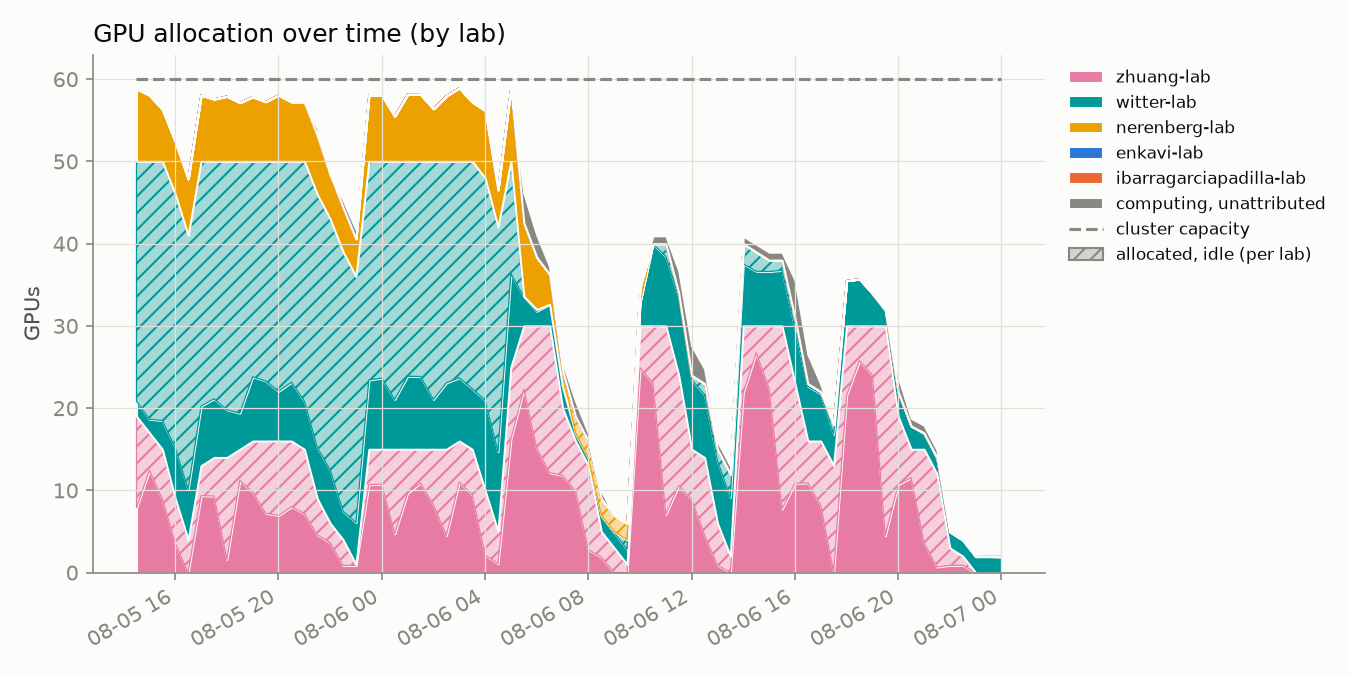
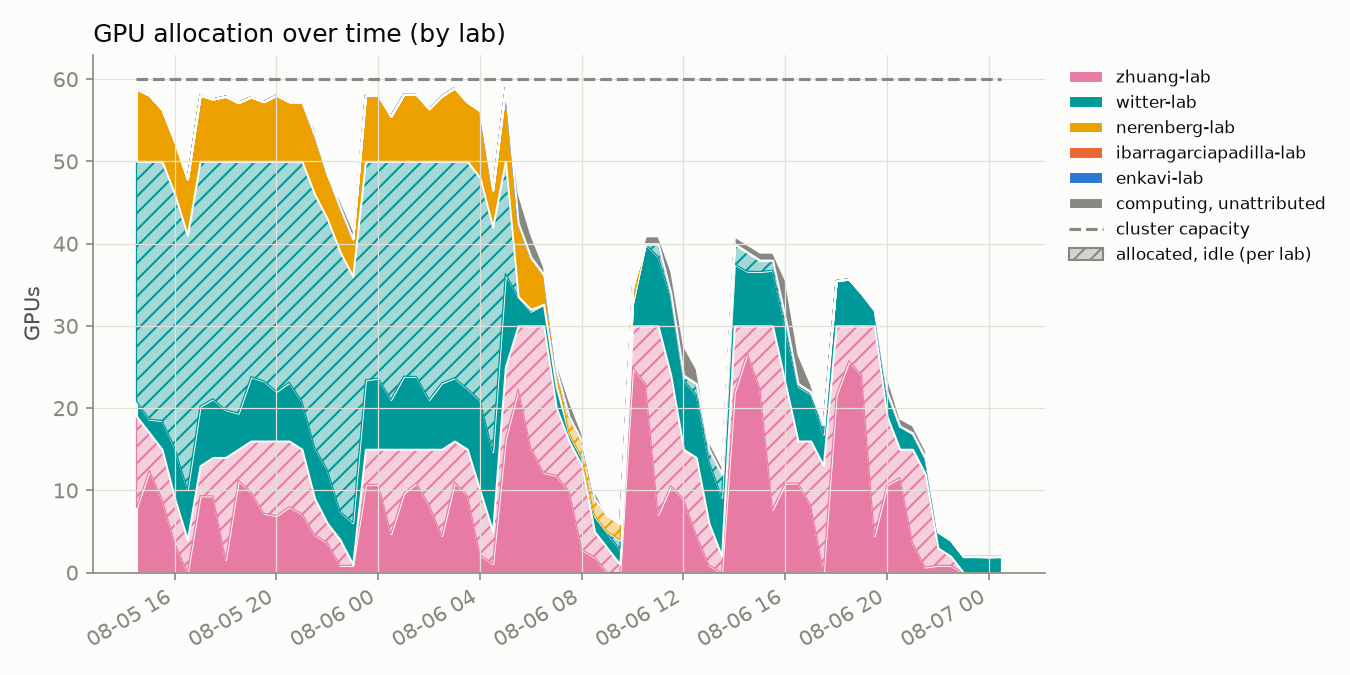
update 2026-08-07T00:30:01-07:00

diff --git a/README.md b/README.md
@@ -2,8 +2,8 @@
 
 Automated GPU/CPU/queue utilization tracker for `hopper.cluster`, updated every 30 minutes by cron. Usernames are anonymized to a stable per-account pseudonym; lab names are real.
 
-Last updated: 2026-08-07T00:00:06-07:00
-Samples: 68 queue snapshots, 68 GPU snapshots
+Last updated: 2026-08-07T00:30:06-07:00
+Samples: 69 queue snapshots, 69 GPU snapshots
 
 ## Resources
 
@@ -16,9 +16,9 @@ Samples: 68 queue snapshots, 68 GPU snapshots
 
 ## Headline
 
-- **58.3%** of the cluster's 60 GPUs allocated, averaged across all samples
+- **57.5%** of the cluster's 60 GPUs allocated, averaged across all samples
 - **42.9%** average `nvidia-smi` utilization *when* a GPU is allocated to a job
-- **84.5%** average cgroup CPU utilization *when* a CPU is allocated to a job
+- **84.6%** average cgroup CPU utilization *when* a CPU is allocated to a job
 
 ## Per lab / per user
 
@@ -26,13 +26,13 @@ Samples: 68 queue snapshots, 68 GPU snapshots
 <tr><th>Lab</th><th>User</th><th align='right'>GPU-hours allocated</th><th align='right'>CPU-hours allocated</th><th align='right'>GPU utilization</th></tr>
 <tr style='background-color:#fbebf1'><td>zhuang-lab</td><td>user-0db9ced0</td><td align='right'>534.0</td><td align='right'>534.0</td><td align='right'>49%</td></tr>
 <tr style='background-color:#d8efef'><td>witter-lab</td><td>user-d58f5a15</td><td align='right'>467.5</td><td align='right'>3740.0</td><td align='right'>9%</td></tr>
-<tr style='background-color:#d8efef'><td>witter-lab</td><td>user-554c620c</td><td align='right'>147.0</td><td align='right'>266.5</td><td align='right'>69%</td></tr>
+<tr style='background-color:#d8efef'><td>witter-lab</td><td>user-554c620c</td><td align='right'>148.0</td><td align='right'>273.5</td><td align='right'>69%</td></tr>
 <tr style='background-color:#fcf0d8'><td>nerenberg-lab</td><td>user-6bb5f332</td><td align='right'>40.0</td><td align='right'>200.0</td><td align='right'>71%</td></tr>
-<tr style='background-color:#fce8e0'><td>ibarragarciapadilla-lab</td><td>user-3cfc41a3</td><td align='right'>0.0</td><td align='right'>3187.5</td><td align='right'>—</td></tr>
-<tr style='background-color:#fce8e0'><td>ibarragarciapadilla-lab</td><td>user-eec7ffae</td><td align='right'>0.0</td><td align='right'>339.0</td><td align='right'>—</td></tr>
-<tr style='background-color:#fce8e0'><td>ibarragarciapadilla-lab</td><td>user-dad71a72</td><td align='right'>0.0</td><td align='right'>6.0</td><td align='right'>—</td></tr>
 <tr style='background-color:#fcf0d8'><td>nerenberg-lab</td><td>user-b12dc074</td><td align='right'>0.0</td><td align='right'>16.0</td><td align='right'>—</td></tr>
+<tr style='background-color:#fce8e0'><td>ibarragarciapadilla-lab</td><td>user-dad71a72</td><td align='right'>0.0</td><td align='right'>6.0</td><td align='right'>—</td></tr>
+<tr style='background-color:#fce8e0'><td>ibarragarciapadilla-lab</td><td>user-eec7ffae</td><td align='right'>0.0</td><td align='right'>351.0</td><td align='right'>—</td></tr>
 <tr style='background-color:#dfeaf8'><td>enkavi-lab</td><td>user-c21bdaa4</td><td align='right'>0.0</td><td align='right'>38.0</td><td align='right'>—</td></tr>
+<tr style='background-color:#fce8e0'><td>ibarragarciapadilla-lab</td><td>user-3cfc41a3</td><td align='right'>0.0</td><td align='right'>3202.5</td><td align='right'>—</td></tr>
 </table>
 
 ## Usage over time
@@ -43,7 +43,7 @@ Samples: 68 queue snapshots, 68 GPU snapshots
 
 Solid = utilized by lab, hatched = allocated but idle, gray = usage not traceable to a lab, dashed line = cluster capacity.
 
-Attribution combines `nvidia-smi`'s process listing with Slurm's GPU-to-job binding record; the latter caught **1801** readings the former missed.
+Attribution combines `nvidia-smi`'s process listing with Slurm's GPU-to-job binding record; the latter caught **1803** readings the former missed.
 
 ## Queue
 
@@ -55,13 +55,13 @@ Attribution combines `nvidia-smi`'s process listing with Slurm's GPU-to-job bind
 
 ![CPU usage vs GPU usage, decayed](assets/cpu_gpu_usage.png)
 
-One point per user per snapshot (n=355), usage decayed on Slurm's ~7-day fairshare half-life.
+One point per user per snapshot (n=358), usage decayed on Slurm's ~7-day fairshare half-life.
 
 **GPU usage doesn't count toward priority on this cluster** (`TRESBillingWeights`/`PriorityWeightTRES` unset) - watch the **upper-left**: low CPU usage (high priority) with high GPU usage.
 
 ## Recommendations
 
-1. **Weight GPU usage in fairshare.** `TRESBillingWeights` and `PriorityWeightTRES` are both unset right now, so Slurm's fairshare score only sees CPU-seconds - a job holding 4 idle L40S GPUs costs nothing in priority as long as it isn't also holding CPUs. That's the exact failure mode the scatter above is built to catch (upper-left: low CPU usage, high GPU usage). Fix: `scontrol update partition=main TRESBillingWeights=CPU=1.0,GRES/gpu=<weight>` (or set `PriorityWeightTRES` cluster-wide), then `scontrol reconfigure` - a full `slurmctld` restart also works but drops in-flight priority state. A reasonable starting point for `<weight>` is the CPUs-per-GPU ratio on a GPU node (128 CPUs / 4 GPUs = 32), so one GPU costs as much fairshare as the CPU share it displaces; tune from there against next week's headline numbers (58.3% allocated, 42.9% utilized when allocated, as of this snapshot). The weight value itself is a policy call - loop in whoever owns cluster allocation policy before changing it.
+1. **Weight GPU usage in fairshare.** `TRESBillingWeights` and `PriorityWeightTRES` are both unset right now, so Slurm's fairshare score only sees CPU-seconds - a job holding 4 idle L40S GPUs costs nothing in priority as long as it isn't also holding CPUs. That's the exact failure mode the scatter above is built to catch (upper-left: low CPU usage, high GPU usage). Fix: `scontrol update partition=main TRESBillingWeights=CPU=1.0,GRES/gpu=<weight>` (or set `PriorityWeightTRES` cluster-wide), then `scontrol reconfigure` - a full `slurmctld` restart also works but drops in-flight priority state. A reasonable starting point for `<weight>` is the CPUs-per-GPU ratio on a GPU node (128 CPUs / 4 GPUs = 32), so one GPU costs as much fairshare as the CPU share it displaces; tune from there against next week's headline numbers (57.5% allocated, 42.9% utilized when allocated, as of this snapshot). The weight value itself is a policy call - loop in whoever owns cluster allocation policy before changing it.
 
 2. **Escalate on sustained low utilization** (see table and scatter above). Right now the clearest candidate is `user-d58f5a15` in `witter-lab`: 467.5 GPU-hours allocated at 9% average utilization, i.e. roughly 424 GPU-hours that sat idle instead of going to someone in the queue. Turning that into an automated escalation needs two decisions made up front: a utilization threshold (something like under 20% mean utilization over at least 50 allocated GPU-hours is a defensible starting bar - loose enough to skip short debugging runs, tight enough to catch parked allocations) and a grace period (how many consecutive low-utilization snapshots before it counts as "sustained" rather than a momentary lull between batches). Once those are set, the mechanism can be either soft (a bot that reads `data/gpu_samples.jsonl` and reminds the user/lab by email or Slack) or hard (a Slurm-side QOS penalty, e.g. `sacctmgr modify qos <qos> set Priority-=<n>`, applied after N consecutive offending snapshots). Neither exists yet - today the table and scatter above are a read-only signal, not an enforced policy.
 
